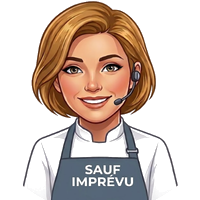
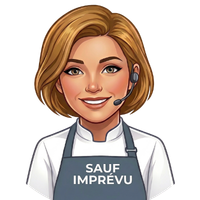
fix: maia.png propre + cache bust v=3

Changed region(s): [[0.09, 0.0, 0.9, 1.0]]

diff --git a/public/index.html b/public/index.html
@@ -1784,7 +1784,7 @@ margin: 20px 20px 0;
 <!-- SPLASH SCREEN -->
 <div class="splash-screen" id="splashScreen">
   <div class="splash-main">
-    <img class="splash-maia" src="/img/maia.png?v=2" alt="Maïa">
+    <img class="splash-maia" src="/img/maia.png?v=3" alt="Maïa">
     <img class="splash-logo" src="https://ciss-media-dev.s3.fr-par.scw.cloud/pointofsales/47408/15-vauban-brc-187.png" alt="Sauf Imprévu">
     <p class="splash-name">Sauf Imprévu</p>
     <p class="splash-sub">Bar à vins · Lyon</p>
@@ -1832,7 +1832,7 @@ margin: 20px 20px 0;
     <img src="https://ciss-media-dev.s3.fr-par.scw.cloud/pointofsales/47408/15-vauban-brc-187.png" alt="Logo Sauf Imprévu" />
     <!-- Mini-fab Maïa — pastille notification coin haut-droit -->
     <div class="maia-mini-fab" id="maiaMiniFab">
-      <img src="/img/maia.png?v=2" alt="Maïa">
+      <img src="/img/maia.png?v=3" alt="Maïa">
     </div>
   </div>
 </div>
@@ -1851,7 +1851,7 @@ margin: 20px 20px 0;
     <div class="maia-float-inner">
       <button class="maia-float-close" onclick="event.stopPropagation(); dismissMaiaFloat()">&times;</button>
       <div style="position:relative;">
-        <img src="/img/maia.png?v=2" alt="Maïa" class="maia-float-avatar">
+        <img src="/img/maia.png?v=3" alt="Maïa" class="maia-float-avatar">
         <div class="maia-float-pulse"></div>
       </div>
       <div class="maia-float-text">
@@ -1870,7 +1870,7 @@ margin: 20px 20px 0;
   </a>
   <button class="cta-btn" onclick="openChat()" id="btnDiscuter">
     <div class="cta-icon" style="overflow:hidden;">
-      <img src="/img/maia.png?v=2" alt="Maïa" style="width:40px;height:40px;object-fit:cover;border-radius:50%;background:#fff;">
+      <img src="/img/maia.png?v=3" alt="Maïa" style="width:40px;height:40px;object-fit:cover;border-radius:50%;background:#fff;">
     </div>
     <span class="cta-label" data-i18n="cta_discuter">Discuter</span>
   </button>
@@ -2415,7 +2415,7 @@ margin: 20px 20px 0;
   <div class="sheet-handle"></div>
   <div class="chat-header">
     <div class="chat-header-left">
-      <img src="/img/maia.png?v=2" alt="Maïa" class="chat-header-avatar">
+      <img src="/img/maia.png?v=3" alt="Maïa" class="chat-header-avatar">
       <div class="chat-header-info">
         <h4>Maïa</h4>
         <span>Agent d'hospitalité · Sauf Imprévu Bar à vins</span>
@@ -2427,7 +2427,7 @@ margin: 20px 20px 0;
     <div class="chat-messages" id="chatMessages">
       <div class="chat-welcome" id="chatWelcome">
         <div class="chat-welcome-top">
-          <img src="/img/maia.png?v=2" alt="Maïa" style="width:72px;height:72px;border-radius:50%;margin-bottom:8px;object-fit:cover;background:#fff;border:2px solid var(--primary);">
+          <img src="/img/maia.png?v=3" alt="Maïa" style="width:72px;height:72px;border-radius:50%;margin-bottom:8px;object-fit:cover;background:#fff;border:2px solid var(--primary);">
           <h4>Bonjour !</h4>
           <p>Je suis Maïa, votre agent d'hospitalité</p>
         </div>
@@ -3676,7 +3676,7 @@ margin: 20px 20px 0;
   function createGhost() {
     var g = document.createElement('div');
     g.className = 'maia-ghost';
-    g.innerHTML = '<img src="/img/maia.png?v=2" alt="Maïa">';
+    g.innerHTML = '<img src="/img/maia.png?v=3" alt="Maïa">';
     document.body.appendChild(g);
     return g;
   }
@@ -3940,7 +3940,7 @@ margin: 20px 20px 0;
 
     return '<div class="chat-welcome" id="chatWelcome">' +
       '<div class="chat-welcome-top">' +
-        '<img src="/img/maia.png?v=2" alt="Maïa" style="width:72px;height:72px;border-radius:50%;margin-bottom:8px;object-fit:cover;background:#fff;border:2px solid var(--primary);">' +
+        '<img src="/img/maia.png?v=3" alt="Maïa" style="width:72px;height:72px;border-radius:50%;margin-bottom:8px;object-fit:cover;background:#fff;border:2px solid var(--primary);">' +
         '<h4>Bonjour !</h4>' +
         '<p>Je suis Maïa, votre agent d\'hospitalité</p>' +
       '</div>' +
@@ -4051,7 +4051,7 @@ margin: 20px 20px 0;
       var row = document.createElement('div');
       row.style.cssText = 'display:flex;align-items:flex-end;gap:8px;align-self:flex-start;max-width:90%;';
       var avatar = document.createElement('img');
-      avatar.src = '/img/maia.png?v=2';
+      avatar.src = '/img/maia.png?v=3';
       avatar.alt = 'Maïa';
       avatar.style.cssText = 'width:36px;height:36px;border-radius:50%;flex-shrink:0;object-fit:cover;background:#fff;border:2px solid var(--primary);';
       var bubble = document.createElement('div');

diff --git a/public/chat.html b/public/chat.html
@@ -212,7 +212,7 @@ html, body {
   <!-- Header -->
   <div class="chat-header">
     <div class="chat-header-left">
-      <img class="chat-header-avatar" src="/img/maia.png?v=2" alt="Maïa">
+      <img class="chat-header-avatar" src="/img/maia.png?v=3" alt="Maïa">
       <div class="chat-header-info">
         <h4 style="display:flex;align-items:center;gap:6px;">Maïa
           <button id="chatLangBtn" onclick="event.stopPropagation();toggleChatLang()" style="background:rgba(255,255,255,0.15);border:none;border-radius:6px;padding:2px 6px;display:inline-flex;align-items:center;gap:3px;cursor:pointer;color:rgba(255,255,255,0.8);font-size:10px;font-weight:600;vertical-align:middle;">
@@ -319,7 +319,7 @@ html, body {
 
     return '<div class="chat-welcome">' +
       '<div class="chat-welcome-top">' +
-        '<img src="/img/maia.png?v=2" alt="Maïa" style="width:72px;height:72px;border-radius:50%;margin-bottom:8px;object-fit:cover;background:#fff;border:2px solid var(--primary);">' +
+        '<img src="/img/maia.png?v=3" alt="Maïa" style="width:72px;height:72px;border-radius:50%;margin-bottom:8px;object-fit:cover;background:#fff;border:2px solid var(--primary);">' +
         '<h4 data-i18n="chat_bonjour">Bonjour !</h4>' +
         '<p data-i18n="chat_intro">Je suis Maïa, votre agent d\'hospitalité</p>' +
       '</div>' +
@@ -402,7 +402,7 @@ html, body {
       var row = document.createElement('div');
       row.style.cssText = 'display:flex;align-items:flex-end;gap:8px;align-self:flex-start;max-width:90%;';
       var avatar = document.createElement('img');
-      avatar.src = '/img/maia.png?v=2'; avatar.alt = 'Maïa';
+      avatar.src = '/img/maia.png?v=3'; avatar.alt = 'Maïa';
       avatar.style.cssText = 'width:36px;height:36px;border-radius:50%;flex-shrink:0;object-fit:cover;background:#fff;border:2px solid var(--primary);';
       var bubble = document.createElement('div');
       bubble.className = 'chat-bubble ' + role;
